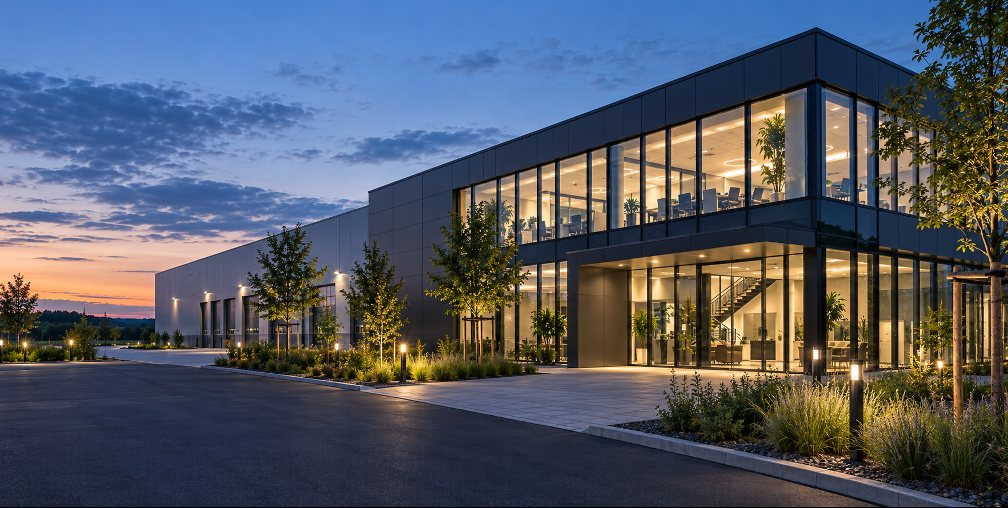
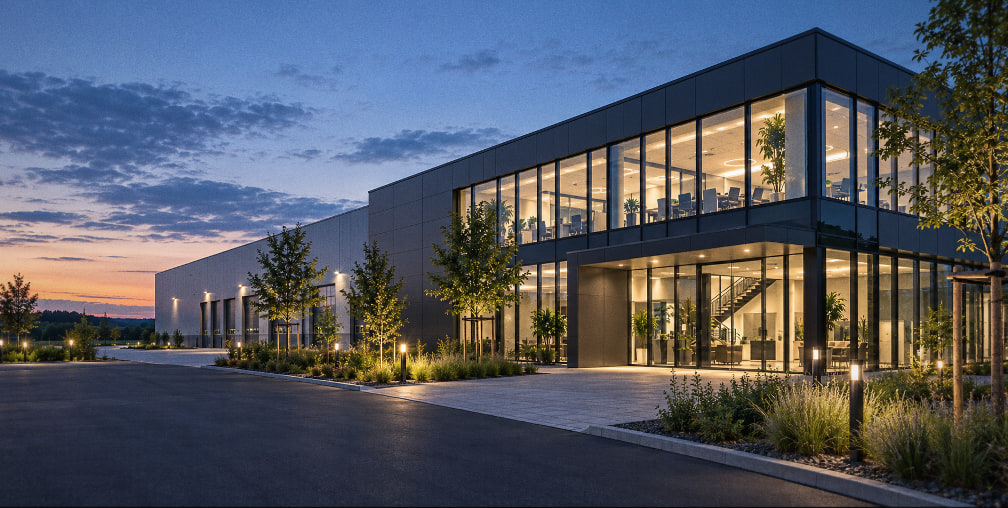
Einstiegsbild fotografisch nachgearbeitet, internationale Reichweite benannt
Das Bild trug die Merkmale einer Renderansicht: makellos gleichmäßige
Flächen, überzeichnete Farbe, rauschfreie Schatten, randscharfe Ecken.
scripts/bild-retusche.mjs nimmt Farbe zurück, hebt die Tiefen an und legt
Randabschattung, weiche Ecken und Korn darüber. Die unbearbeitete Fassung
bleibt als hero-building.png erhalten, der Eintrag in data/bilder.ts weist
die Bearbeitung aus — an der Einstufung als KI-Erzeugnis ändert sie nichts.

Der Vorteil „Internationale Projekterfahrung" nennt jetzt die Regionen der
Unternehmensgeschichte und die aktuelle Planung nach Südostasien, getrennt
gehalten: Vorhaben in Europa, Zentralasien und Ostafrika sind belegt,
Südostasien ist ausdrücklich Planung.

diff --git a/src/i18n/startseite.ts b/src/i18n/startseite.ts
@@ -163,7 +163,7 @@ export const STARTSEITE: Record<'de' | 'en', Startseite> = {
         },
         {
           titel: 'Internationale Projekterfahrung',
-          text: 'Mehrsprachige Projektdokumentation und interkulturelle Erfahrung aus der Unternehmensgeschichte, heute mit fester Verankerung in Deutschland.',
+          text: 'Mehrsprachige Projektdokumentation und interkulturelle Erfahrung aus Vorhaben in Europa, Zentralasien und Ostafrika — heute von Deutschland aus, mit Planungen bis nach Südostasien.',
           icon: 'international',
         },
       ],
@@ -290,7 +290,7 @@ export const STARTSEITE: Record<'de' | 'en', Startseite> = {
         },
         {
           titel: 'International project experience',
-          text: 'Multilingual project documentation and cross-cultural experience from our corporate history, today with a firm base in Germany.',
+          text: 'Multilingual project documentation and cross-cultural experience from projects in Europe, Central Asia and East Africa — today from a base in Germany, with planning reaching into South-East Asia.',
           icon: 'international',
         },
       ],

diff --git a/src/data/bilder.ts b/src/data/bilder.ts
@@ -113,7 +113,8 @@ export const BILDREGISTER: Bildeintrag[] = [
     art: 'ki-technik',
     beleg:
       kiTechnik +
-      ' Wird auf Entscheidung des Auftraggebers ohne Hinweis am Bild gezeigt: generisches Gebäude ohne Personen und ohne Bezug auf ein konkretes Projekt. Abgedeckt durch den Sammelnachweis im Impressum.',
+      ' Wird auf Entscheidung des Auftraggebers ohne Hinweis am Bild gezeigt: generisches Gebäude ohne Personen und ohne Bezug auf ein konkretes Projekt. Abgedeckt durch den Sammelnachweis im Impressum.' +
+      ' Fotografisch nachbearbeitet (scripts/bild-retusche.mjs): Farbe zurückgenommen, Tiefen angehoben, Randabschattung, weiche Ecken, Korn. Unbearbeitete Fassung: hero-building.png.',
     verwendet: true,
     einsatzort: 'Startseite, Einstieg',
     bezug: 'Unternehmensdarstellung',
